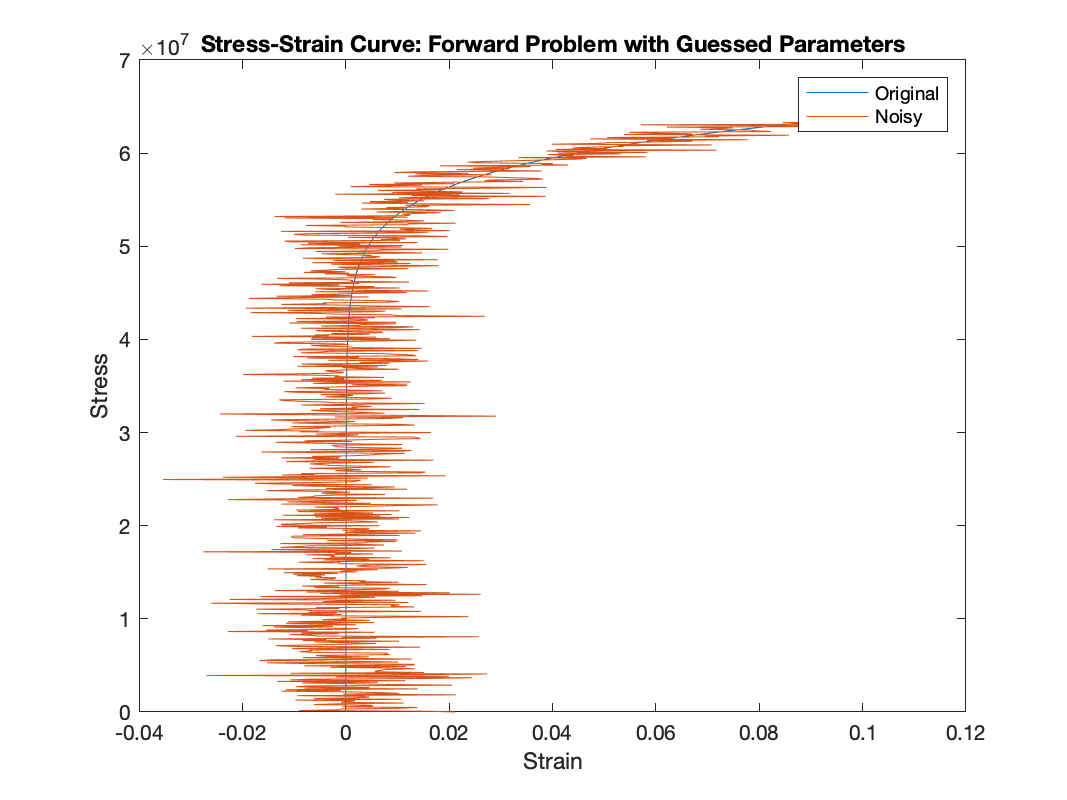
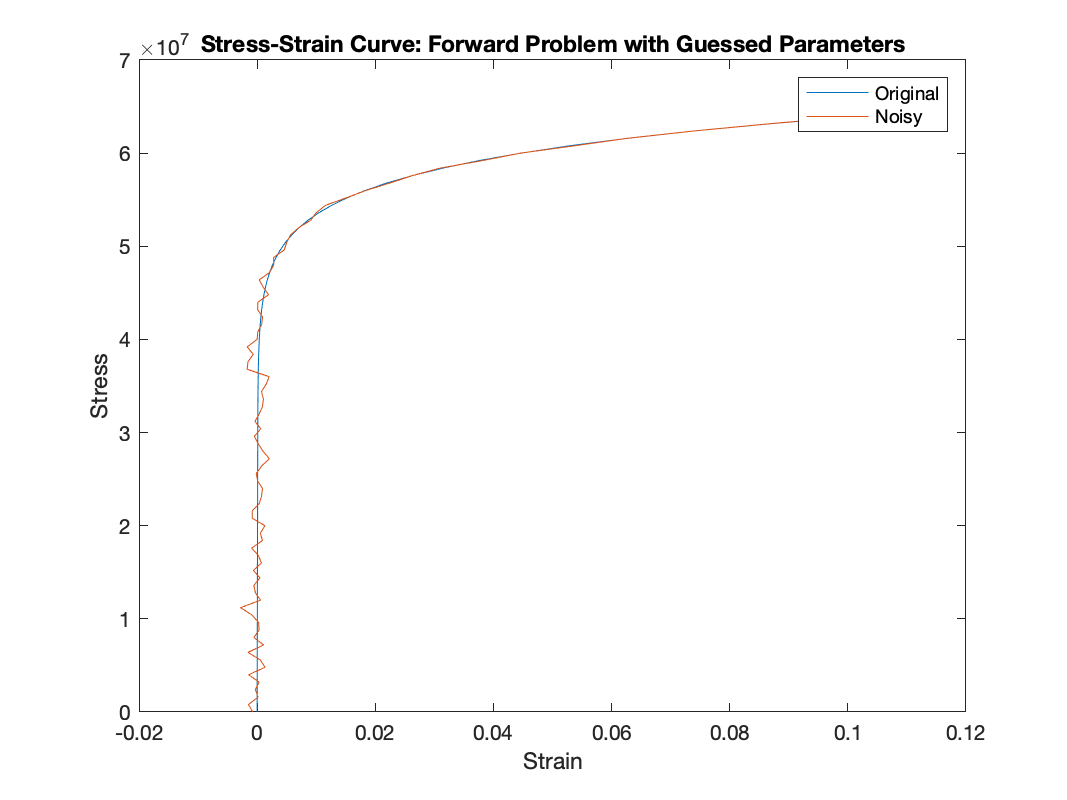
[base] test: tsvd (tag:w)

diff --git a/Project/Project.m b/Project/Project.m
@@ -13,12 +13,12 @@ s = pi * r^2; % m^2
 n_range = [4:0.1:30];
 e_range = [250:10:400].*1e+09;
 k_range = [70:1:120].*1e+06;
-
+xtest = [200e7, 80e7, 2];
 % Define time span
-tspan = [0:0.1:80]'; % s
+tspan = [0:1:80]'; % s
 
 % Noise level in percentage and regularization
-noise_level = 0;
+noise_level = 0.1;
 lambda = 0.00;
 % Define ODE function
 %[t, epsilon_exp]=ode45(@forward_sigma, tspan, 0, [], beam, dsigma);
@@ -65,7 +65,7 @@ x0 = [100e9; 60e6; 11]; % initial guess
 % Optimization
 options = optimset('Display','iter'); % display iterations
 [x_opt, fval] = fminsearch(fun, x0, options); 
-[xsol,fval]=fminunc(fun, x0, optimset('Display','iter','TolFun',1e-6,'GradObj','off'));
+[xsol, fval]=fminunc(fun, x0, optimset('Display','iter','TolFun',1e-6,'GradObj','off'));
 
 % Display results
 fprintf('Optimal parameter values using fminsearch:\n');
@@ -99,7 +99,7 @@ fun = @(x) misfit_sig(x, epsiexp, t, beam, dsigma);
 
 % Define initial guess and search bounds
 x0 = [beam.E; beam.K; beam.n]; % initial guess
-x0 = [300e9; 80e7; 12];
+x0 = [300e9; 80e6; 12];
 
 % Optimization
 options = optimset('Display','iter'); % display iterations
@@ -126,56 +126,3 @@ ylabel('Stress');
 title('Stress-Strain Curve: Data vs Identified Model');
 legend('Data', 'Identified Model');
 saveas(gcf, 'assets/identified_model.png');
-
-%%%%%%%%%%%%%%%%%%%%%%%%%%%%%%%%%%%%%%%%%%%%%%%%%%%%%%%%%%%%%%%%%%%%%%%%%%%%%%%%%%%%%%%%%%%%%%%%%%%%%%%
-% Define objective function
-%%
-% Run optimization
-
-
-%% Other tests that didnt work
-
-% It is found that the misfit function is not convex. Hence, the global optimization is not possible.
-% The purpose of using fminsearch instead of the fminunc is to find a solution without checking for gradients
-
-% %[misfit, E_opt, K_opt, n_opt] = misfit_minunc(epsilon_exp, t, beam, dsigma, e_range, k_range, n_range);
-% % e_range = 180:10:300;
-% % e_range = e_range .* 1e9;
-% % k_range = 65:1:75;
-% % k_range = k_range .* 1e6;
-% %[misfit_values, E_opt, K_opt, n_opt] = misfit_mincon(epsilon_exp, t, beam, dsigma, e_range, [beam.K beam.K], [beam.n, beam.n]);
-
-
-% %id1 mat
-% tid = [0:0.1:80];
-
-% load('id1.mat');
-% E_guess = 200e9;
-% K_guess = 70e7;
-% n_guess = 3;
-% x0 = [E_guess, K_guess, n_guess];
-
-% %[misfit, E_opt, K_opt, n_opt] = ident(x0, epsiexp, tid, beam, dsigma);
-
-% tn = [0:0.1:80]';
-% epsilonid = forana(beam, tn, dsigma);
-% sigmaid = dsigma * tn;
-
-% [xsol,fval]=fminunc(@misfitid, x0,optimset('Display','iter','TolFun',1e-6,'GradObj','off'),epsiexp, tn, beam, dsigma) % unconstrained minimization of the misfit function
-% [misfit_values, E_opt, K_opt, n_opt] = misfit_mincon(epsiexp, tn, beam, dsigma, [E_guess], [K_guess], [n_guess]);
-
-
-% % Define experimental data
-% load('id1.mat');
-
-% tn = 0:0.1:80;
-% dsigma = 0.8e6 % your value of dsigma here
-
-% % Set initial guesses for parameters
-% initial_guess = [200e9, 70e6, 1.5];
-
-% % Set up the options for the optimization algorithm
-% options = optimoptions('fminunc', 'MaxIterations', 1000);
-
-% % Minimize the misfit function using fminunc
-% result = fminunc(@(beam) misfitid(beam, tn, epsiexp, dsigma), initial_guess, options);

diff --git a/Project/misfit_sig.m b/Project/misfit_sig.m
@@ -2,7 +2,6 @@ function misfit_sig=misfit_sig(x, eps_exp, tn, beam, dsigma, lambda)
 if nargin == 5
     lambda = 0;
 end
-
 % Calculation of the misfit function with no gradient estimation
 beamtemp.n = x(3); % update of the parameter
 beamtemp.E = x(1);
@@ -17,8 +16,22 @@ epsilon = forana(beamtemp, tn, dsigma);
 misfit_sig = sqrt(mean((epsilon - eps_exp).^2));
 
 % Calculate regularization term
-reg_term = lambda * sqrt(sum(x.^2));
+%reg_term = lambda * sqrt(sum(x.^2));
 
 % Total objective function
-misfit_sig = misfit_sig + reg_term;
+% misfit_sig = misfit_sig + reg_term;
 
+% Define regularization parameter
+% Define singular value decomposition of the forward problem
+% [U,S,V] = svd(forana(beamtemp, tn, dsigma));
+% s = diag(S);
+
+% % Define truncated singular value decomposition
+% s_trunc = zeros(size(s));
+% s_trunc(s > lambda) = s(s > lambda);
+% S_trunc = diag(s_trunc);
+
+% % Regularized misfit function calculation
+% reg = mean((U*S_trunc*V' * eps_exp - eps_exp).^2);
+
+% misfit_sig = misfit_sig + reg;
